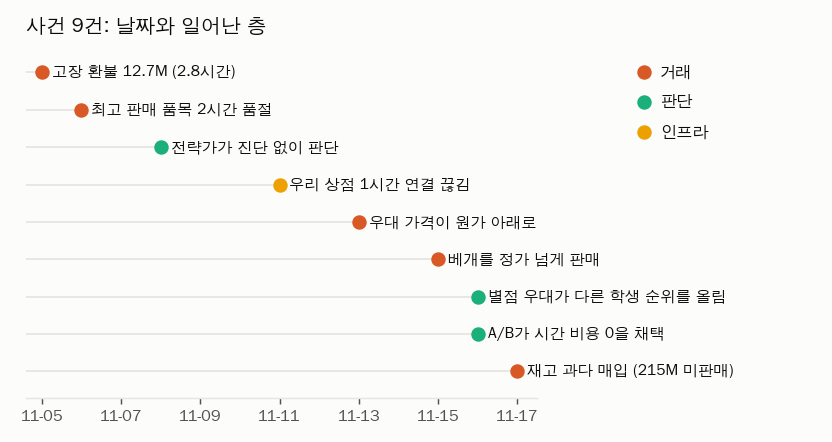
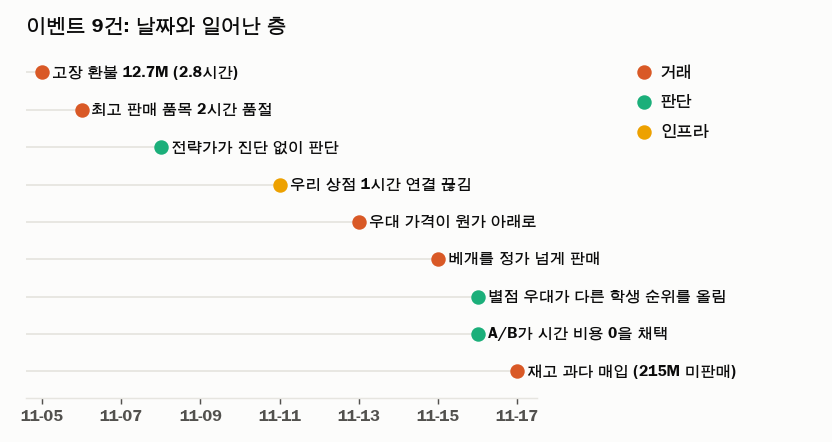
[week-08] REPORT: '사건' -> '이벤트' (user), chart title too

diff --git a/submissions/23530007/week-08/reports/plot_extra.py b/submissions/23530007/week-08/reports/plot_extra.py
@@ -182,7 +182,7 @@ def incidents():
         yy = n - 1 - k * 0.8
         ax.plot([20.2], [yy], "o", color=col, ms=7)
         ax.text(20.6, yy, r, va="center", color=cs.INK, fontsize=9)
-    cs.title(ax, "사건 9건: 날짜와 일어난 층")
+    cs.title(ax, "이벤트 9건: 날짜와 일어난 층")
     f.tight_layout(); cs.save(f, f"{OUT}/incidents.png")
 
 
